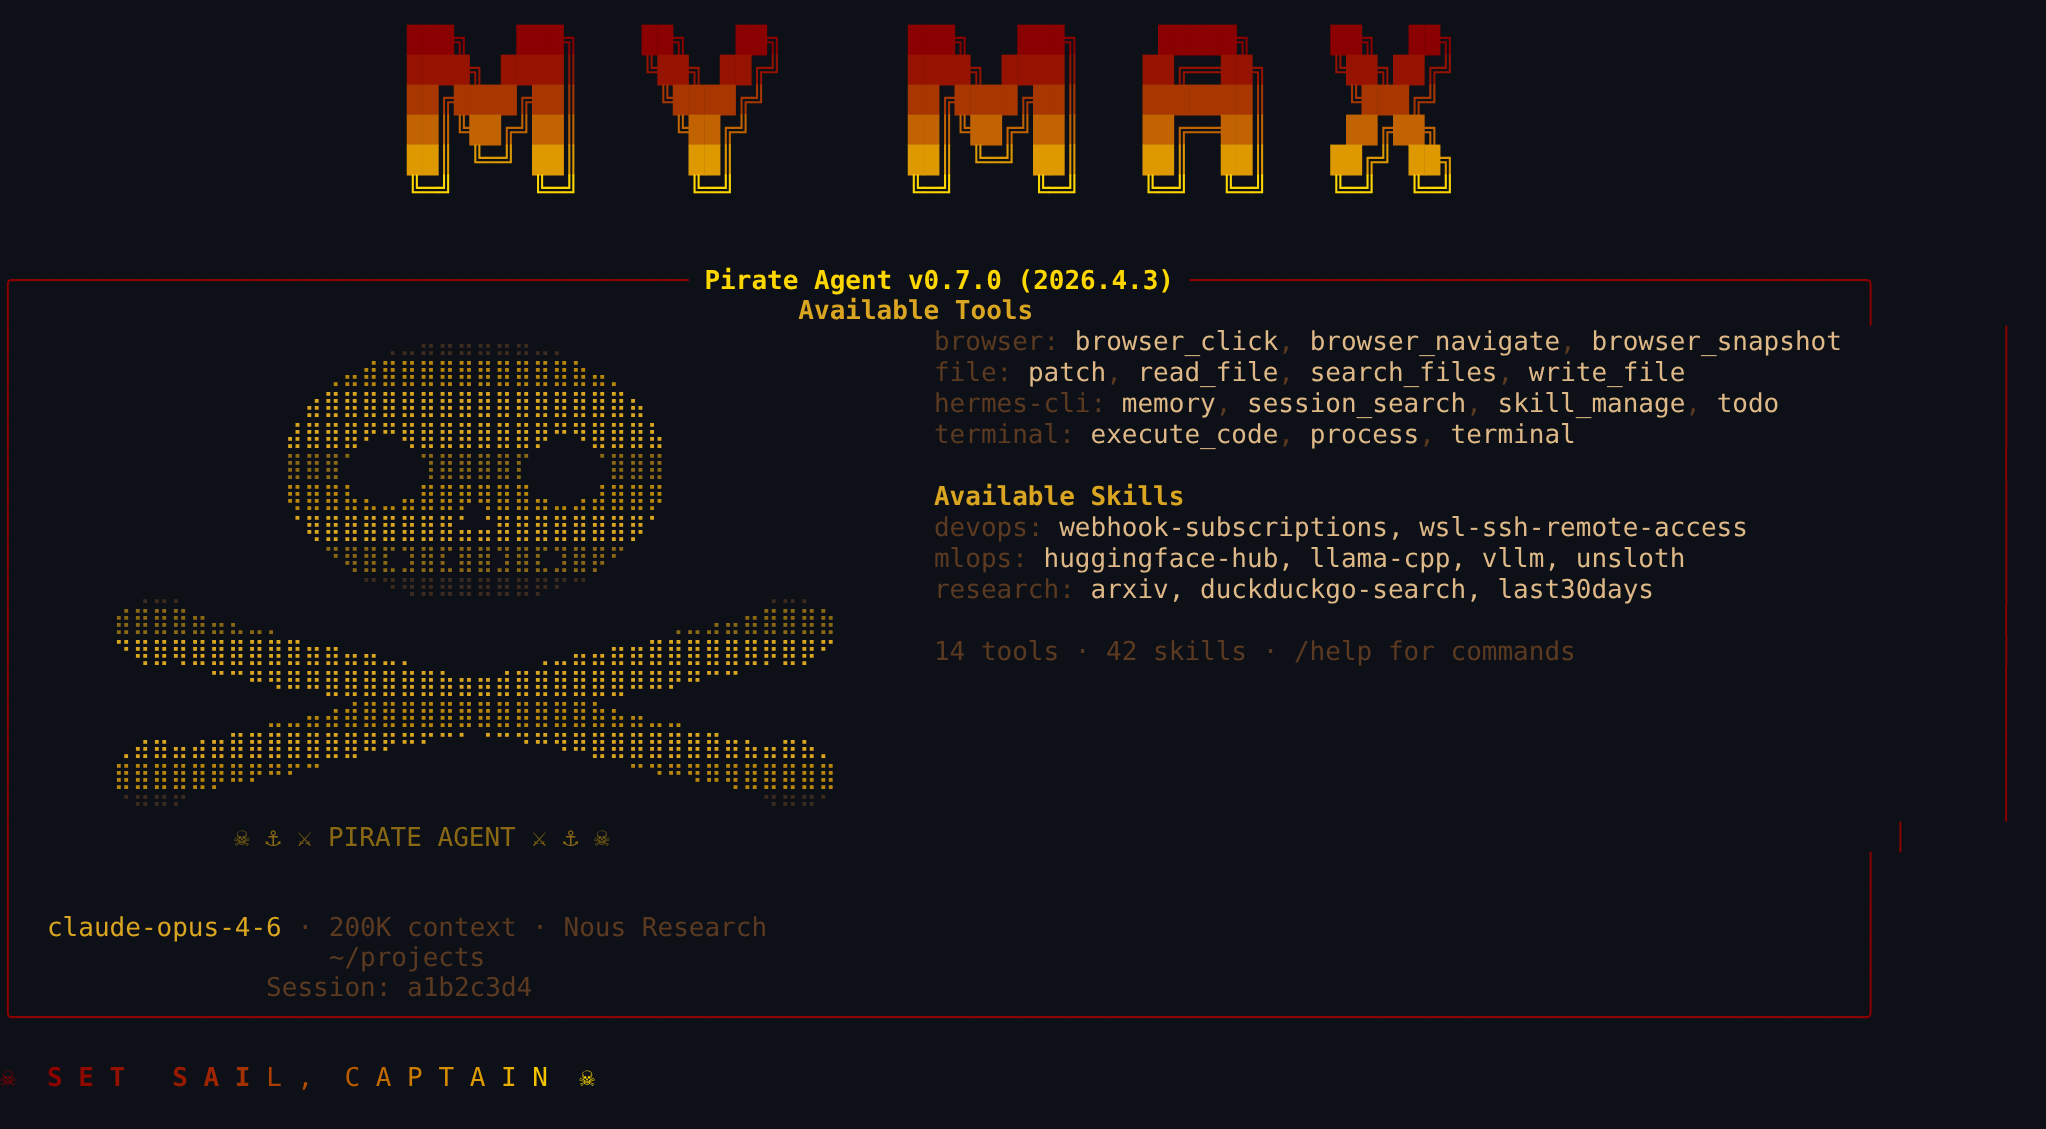
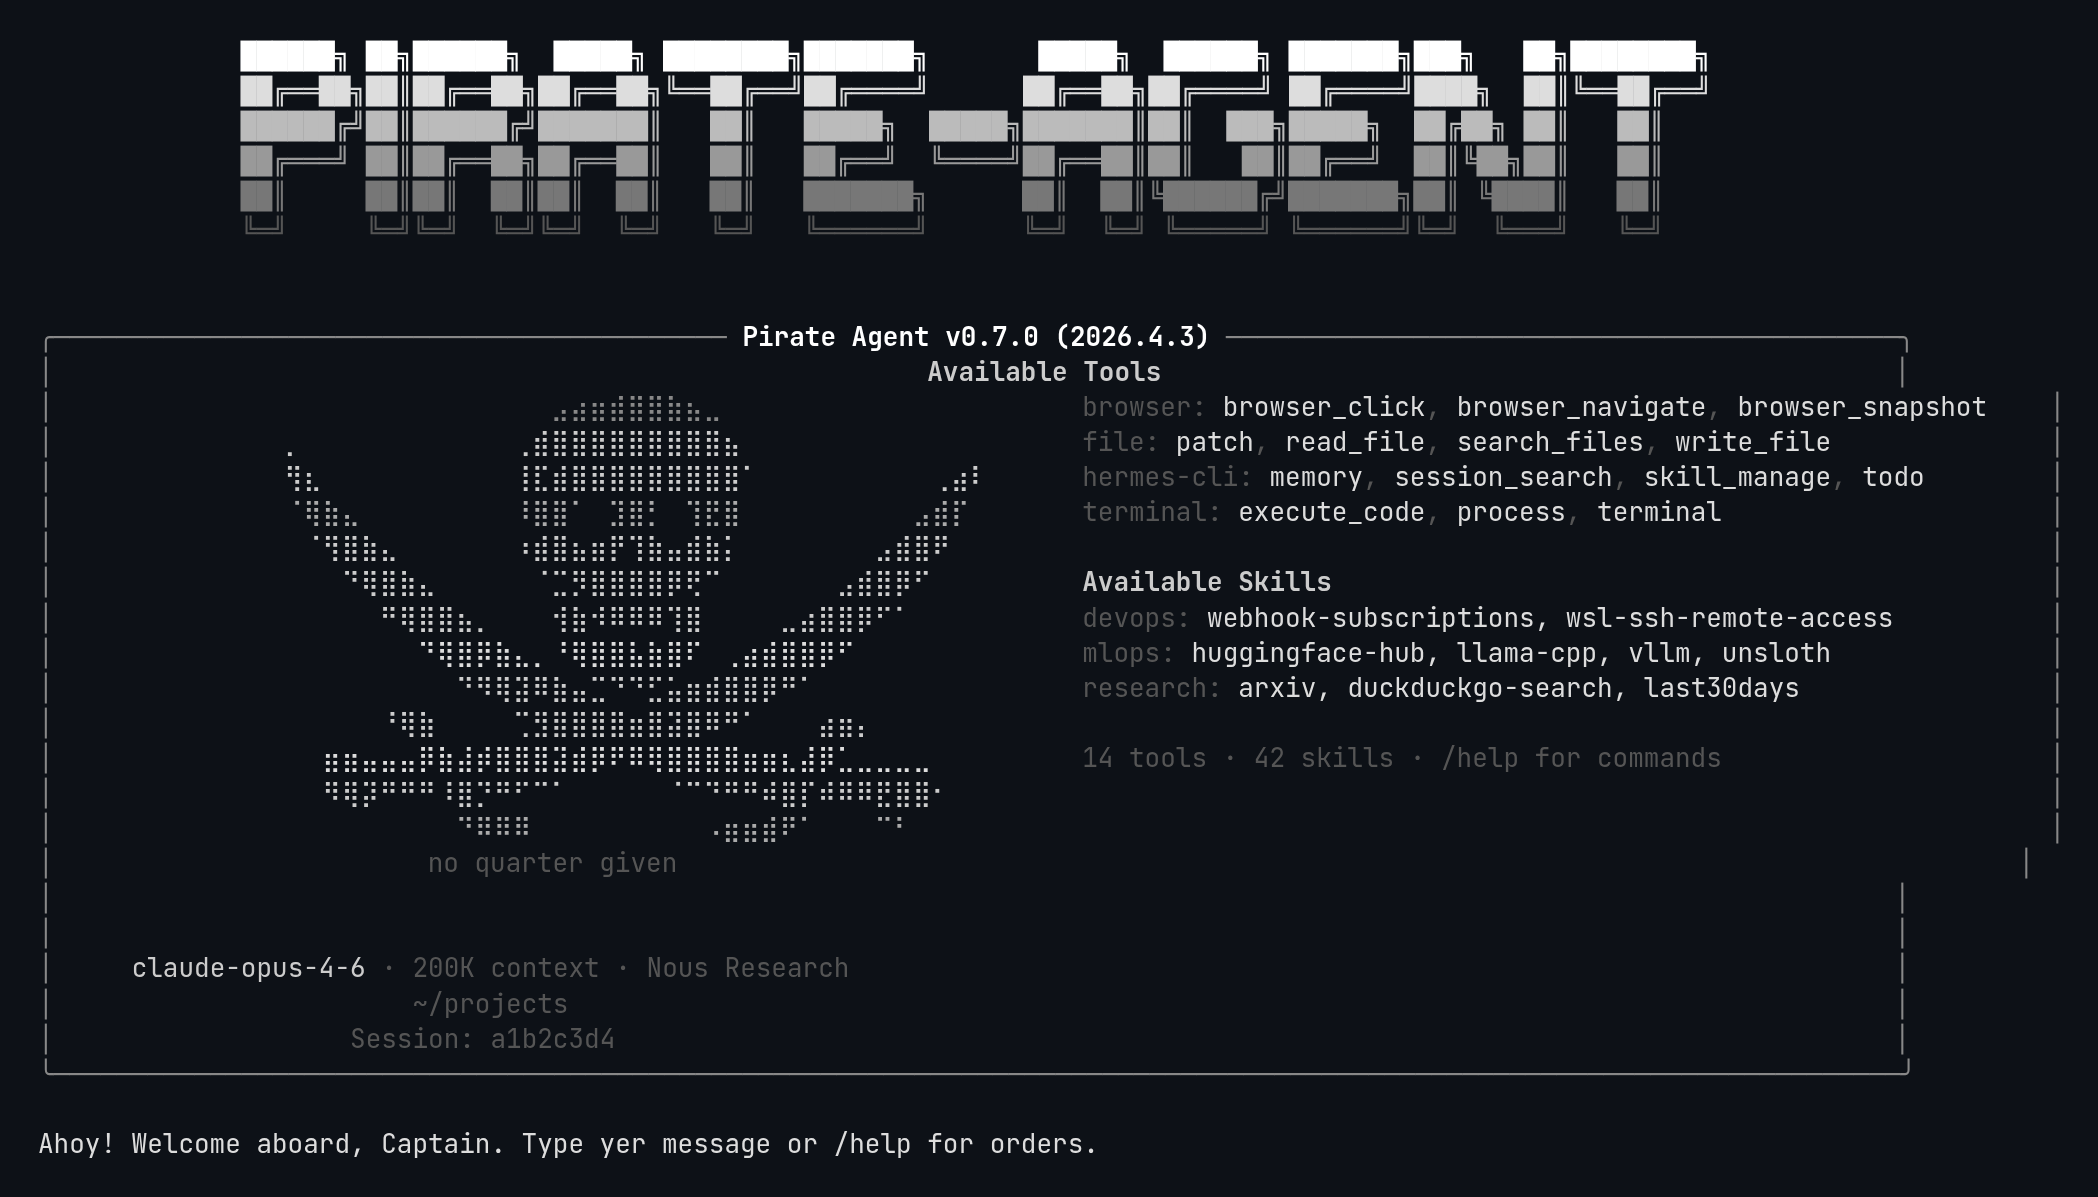
fix: restore original pirate skin and tight screenshots

diff --git a/README.md b/README.md
@@ -26,7 +26,7 @@ That's it. Missing values inherit from the default skin, so you only need to def
 ### Custom
 
 #### Pirate
-Pirate captain theme — crimson and gold with Jolly Roger skull-and-crossbones braille art.
+Black and white pirate flag theme with Jolly Roger skull-and-crossbones braille art.
 
 → [pirate.yaml](skins/pirate.yaml)
 